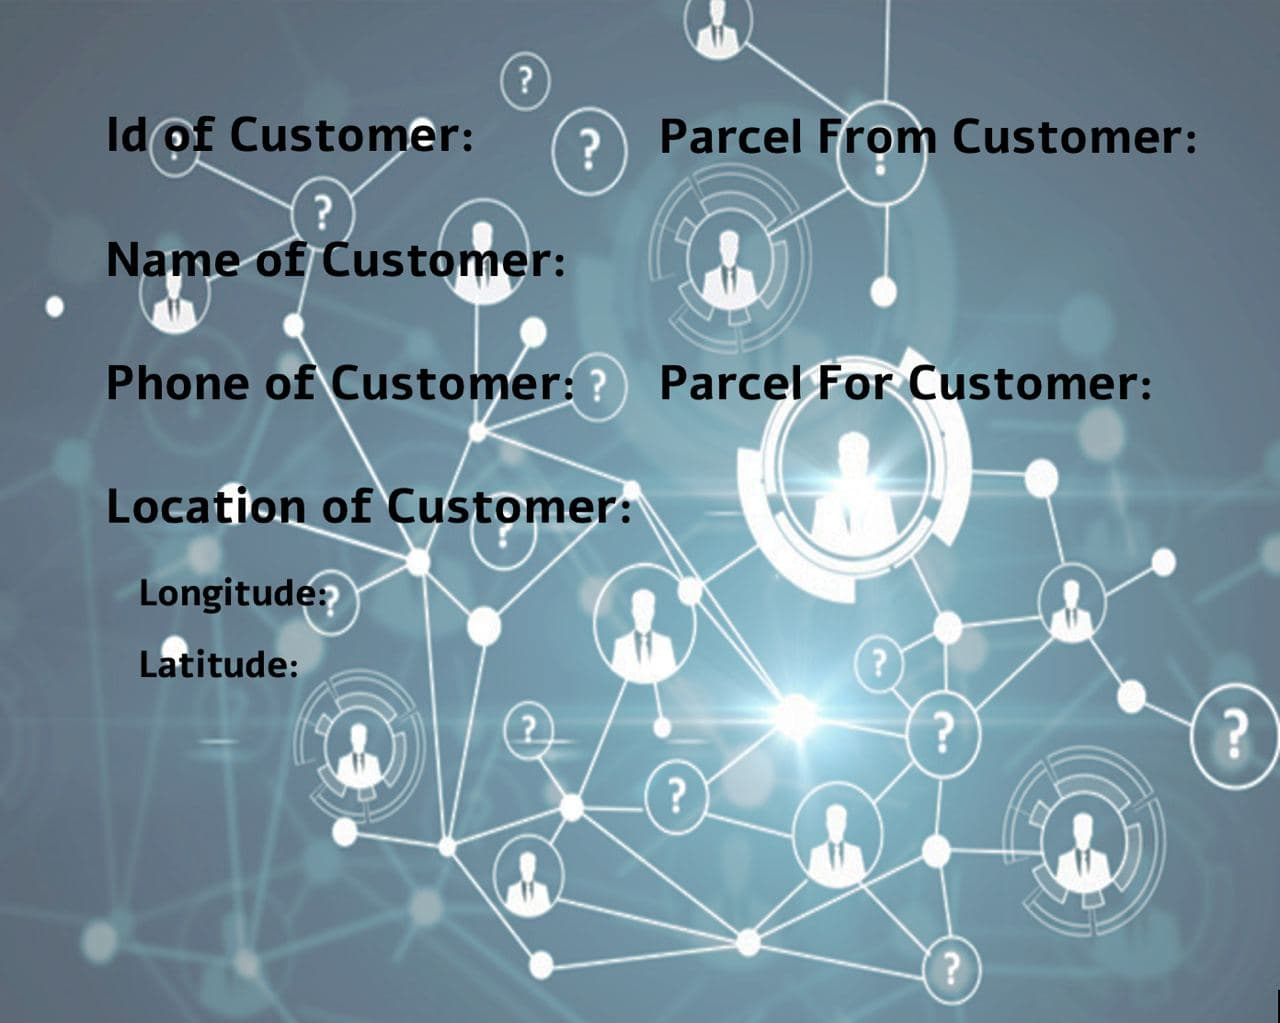
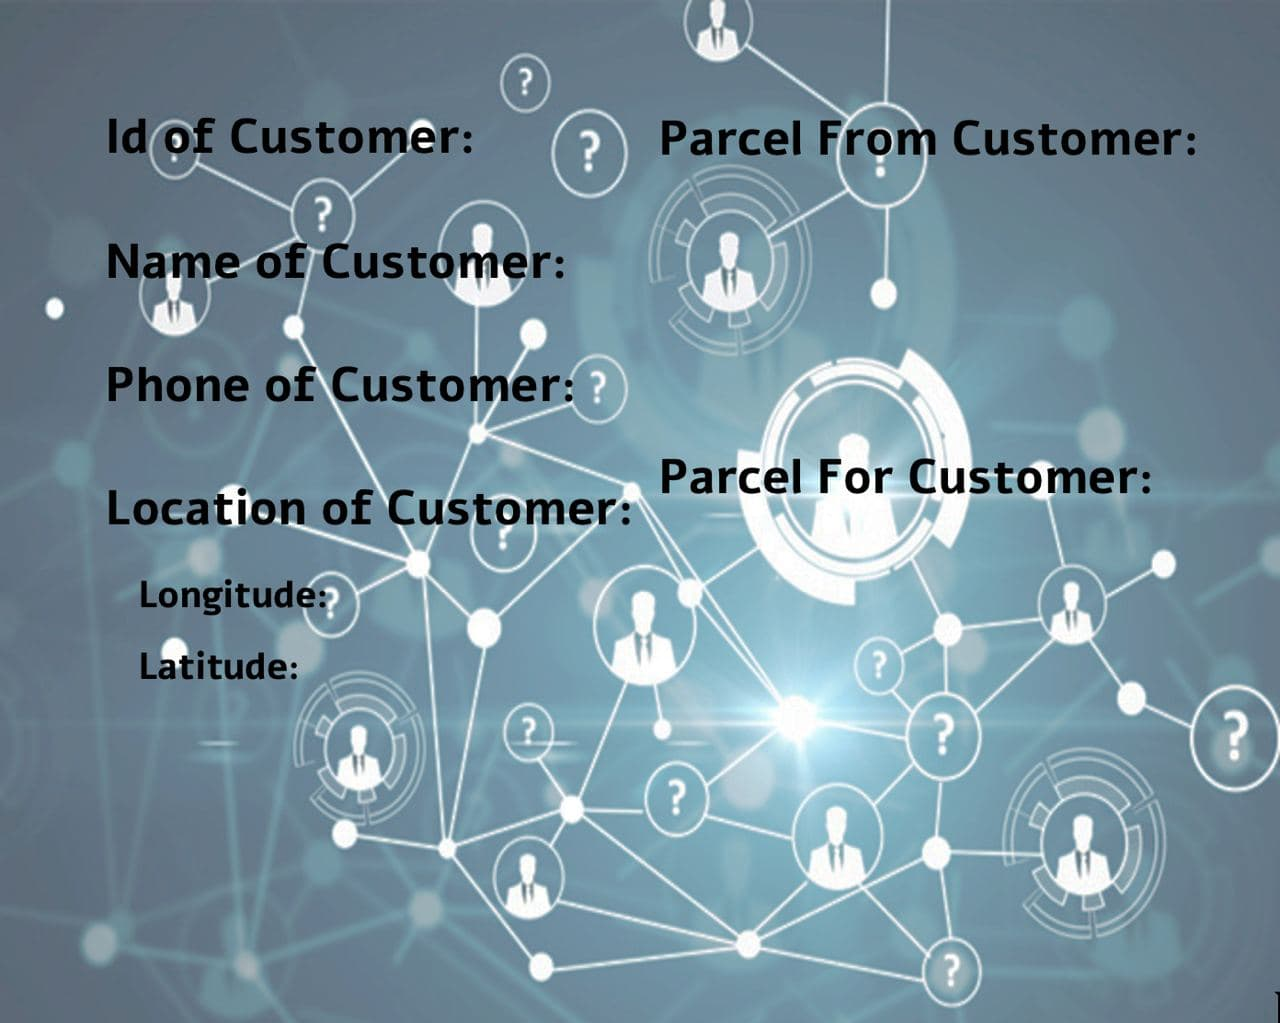
israel

diff --git a/PLCustomer/MainWindow.xaml b/PLCustomer/MainWindow.xaml
@@ -9,8 +9,13 @@
         Icon="/img/droneIcon.ico"
         Background="Cyan"
         ResizeMode="CanMinimize">
-    
+
     <Grid>
-        <Frame x:Name="MainPage" NavigationUIVisibility="Hidden" />
+        <Grid.RowDefinitions>
+            <RowDefinition Height="0*"/>
+            <RowDefinition Height="7*"/>
+            <RowDefinition Height="149*"/>
+        </Grid.RowDefinitions>
+        <Frame x:Name="MainPage" NavigationUIVisibility="Hidden" Grid.RowSpan="3" Navigated="MainPage_Navigated" />
     </Grid>
 </Window>

diff --git a/PLCustomer/MainWindow.xaml.cs b/PLCustomer/MainWindow.xaml.cs
@@ -33,5 +33,9 @@ namespace PLCustomer
             //Open in the window new Page
             MainPage.Content = new MainPage();
         }
+
+        private void MainPage_Navigated(object sender, NavigationEventArgs e) {
+
+        }
     }
 }
